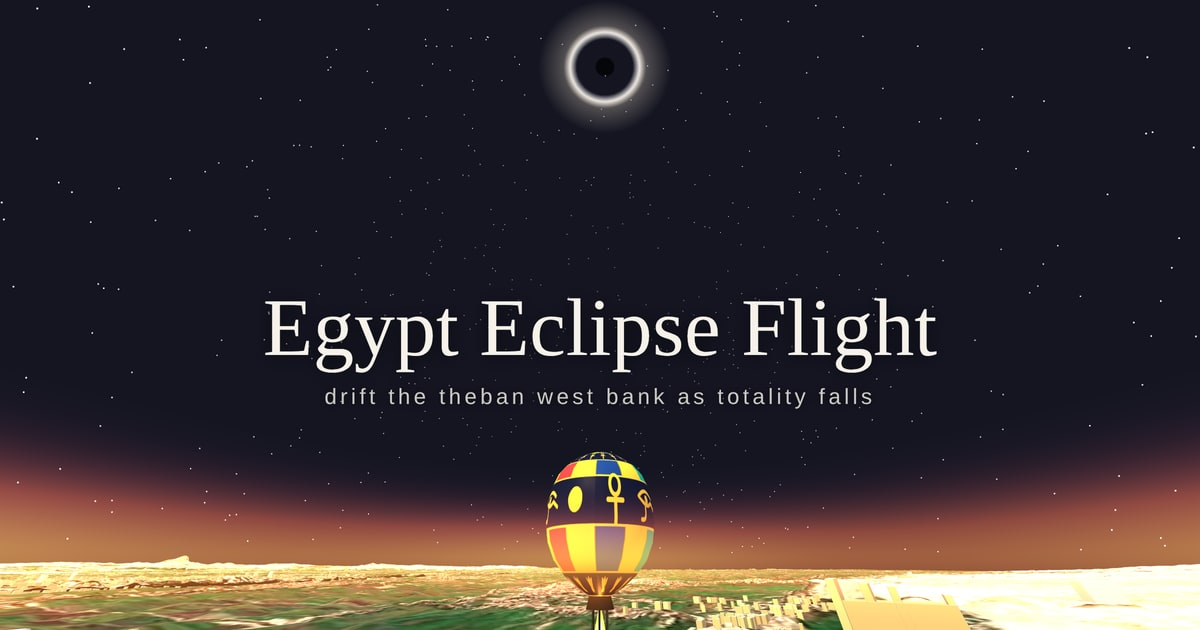
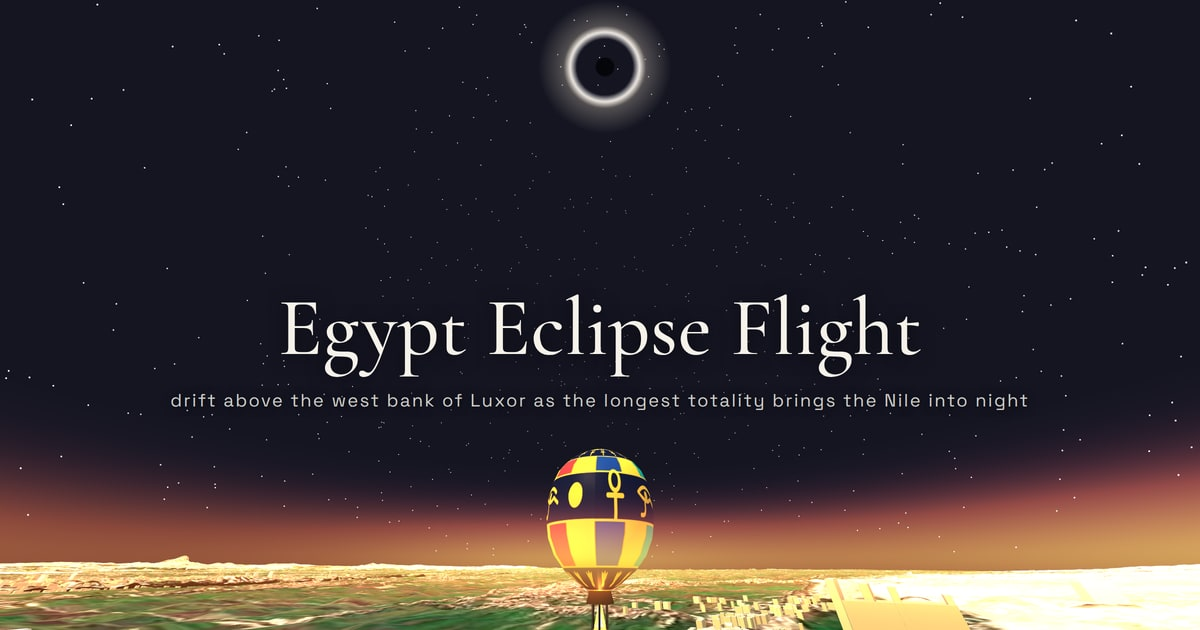
Update tagline: "drift above the west bank of Luxor..."
New subtitle on the start screen (#f-sub), the share card (og.jpg), and the
meta/og/twitter descriptions: "drift above the west bank of Luxor as the
longest totality brings the Nile into night".

diff --git a/index.html b/index.html
@@ -5,18 +5,18 @@
 <meta name="viewport" content="width=device-width,initial-scale=1.0"/>
 <title>Egypt Eclipse Flight</title>
 <link rel="icon" type="image/svg+xml" href="assets/favicon.svg"/>
-<meta name="description" content="Drift a hot-air balloon over the Theban west bank of Egypt — the Nile, the Valley of the Kings, and al-Qurn — as a total solar eclipse sweeps the desert to totality."/>
+<meta name="description" content="Drift above the west bank of Luxor as the longest totality brings the Nile into night."/>
 <!-- Open Graph / social share card -->
 <meta property="og:type" content="website"/>
 <meta property="og:title" content="Egypt Eclipse Flight"/>
-<meta property="og:description" content="Drift a hot-air balloon over the Theban west bank of Egypt as a total solar eclipse sweeps the desert to totality."/>
+<meta property="og:description" content="Drift above the west bank of Luxor as the longest totality brings the Nile into night."/>
 <meta property="og:url" content="https://ugla-ctrl.github.io/egypt-eclipse-flight/"/>
 <meta property="og:image" content="https://ugla-ctrl.github.io/egypt-eclipse-flight/assets/og.jpg"/>
 <meta property="og:image:width" content="1200"/>
 <meta property="og:image:height" content="630"/>
 <meta name="twitter:card" content="summary_large_image"/>
 <meta name="twitter:title" content="Egypt Eclipse Flight"/>
-<meta name="twitter:description" content="Drift a hot-air balloon over the Theban west bank of Egypt as a total solar eclipse sweeps the desert to totality."/>
+<meta name="twitter:description" content="Drift above the west bank of Luxor as the longest totality brings the Nile into night."/>
 <meta name="twitter:image" content="https://ugla-ctrl.github.io/egypt-eclipse-flight/assets/og.jpg"/>
 <style>
   html,body{margin:0;height:100%;background:#0a0a12;overflow:hidden;font-family:'Space Grotesk',system-ui,sans-serif}
@@ -54,7 +54,7 @@
   <!-- Start overlay; the button stays "loading terrain…" until the DEM is decoded -->
   <div id="f-start" style="position:absolute;inset:0;z-index:10;display:flex;flex-direction:column;align-items:center;justify-content:center;background:rgba(8,8,14,.82);text-align:center;cursor:pointer">
     <div id="f-title" style="font-family:'Cormorant Garamond',serif;font-weight:300;font-size:56px;color:#f4f1ea">Egypt Eclipse Flight</div>
-    <div id="f-sub" style="margin-top:14px;color:#c9c0ad;font-size:14px;max-width:40ch">Drift a hot-air balloon over the Theban west bank — the Nile, the Valley of the Kings, al-Qurn — as a total solar eclipse sweeps the desert to totality</div>
+    <div id="f-sub" style="margin-top:14px;color:#c9c0ad;font-size:14px;max-width:40ch">drift above the west bank of Luxor as the longest totality brings the Nile into night</div>
     <div id="f-fly" style="margin-top:30px;padding:14px 32px;border:1px solid #f4c874;border-radius:100px;color:#f4c874;font-size:12px;letter-spacing:.3em;text-transform:uppercase">loading terrain…</div>
     <div id="f-hint-start" style="margin-top:24px;font-size:11px;color:#8a8168;letter-spacing:.12em">↑↓ climb · ←→ steer · W/S drift · space burner · E hasten eclipse</div>
   </div>